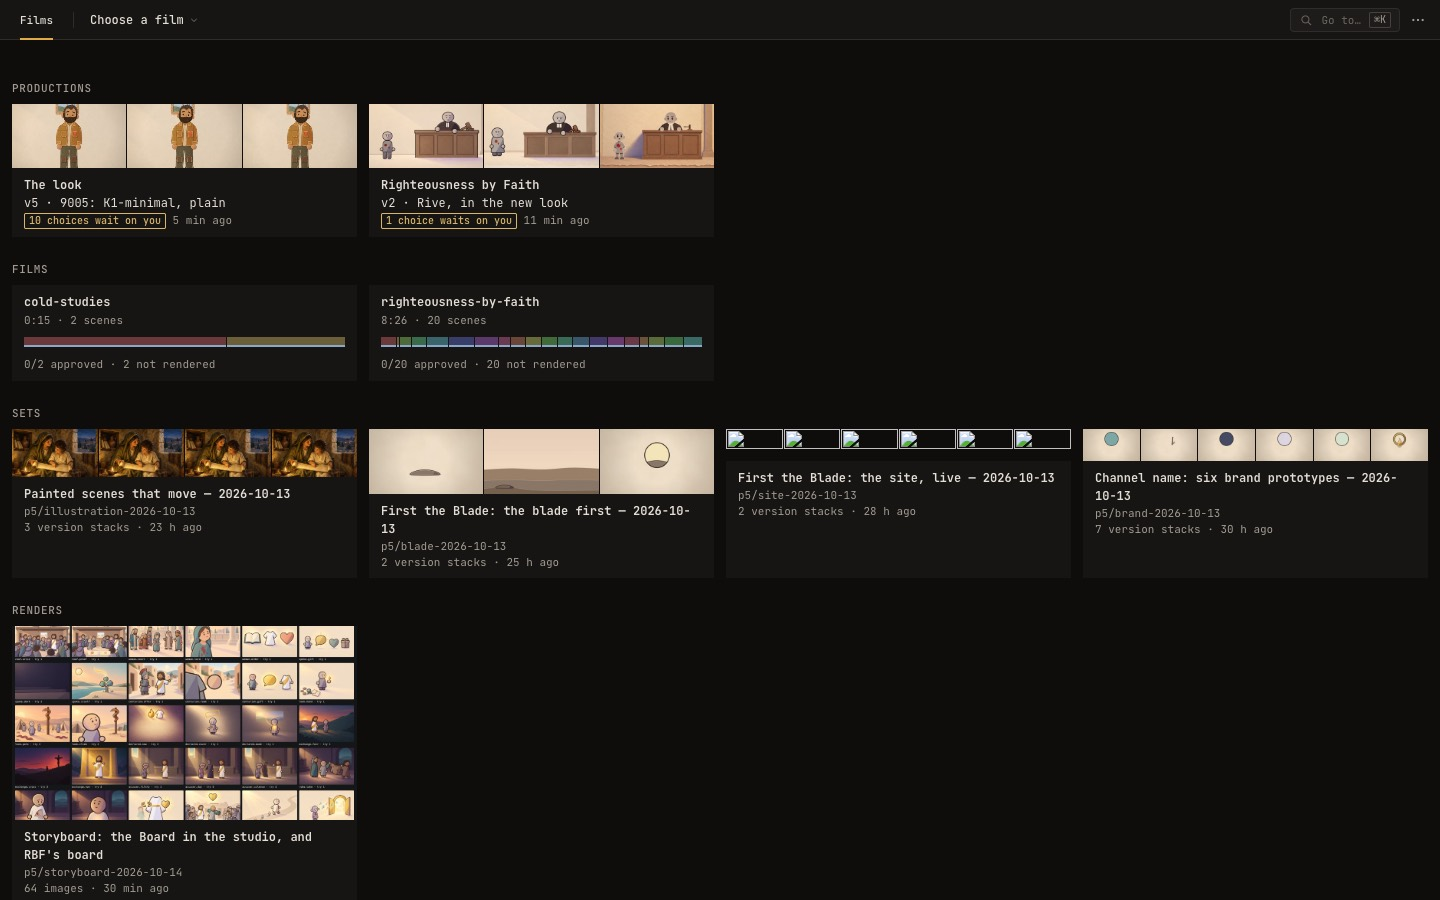
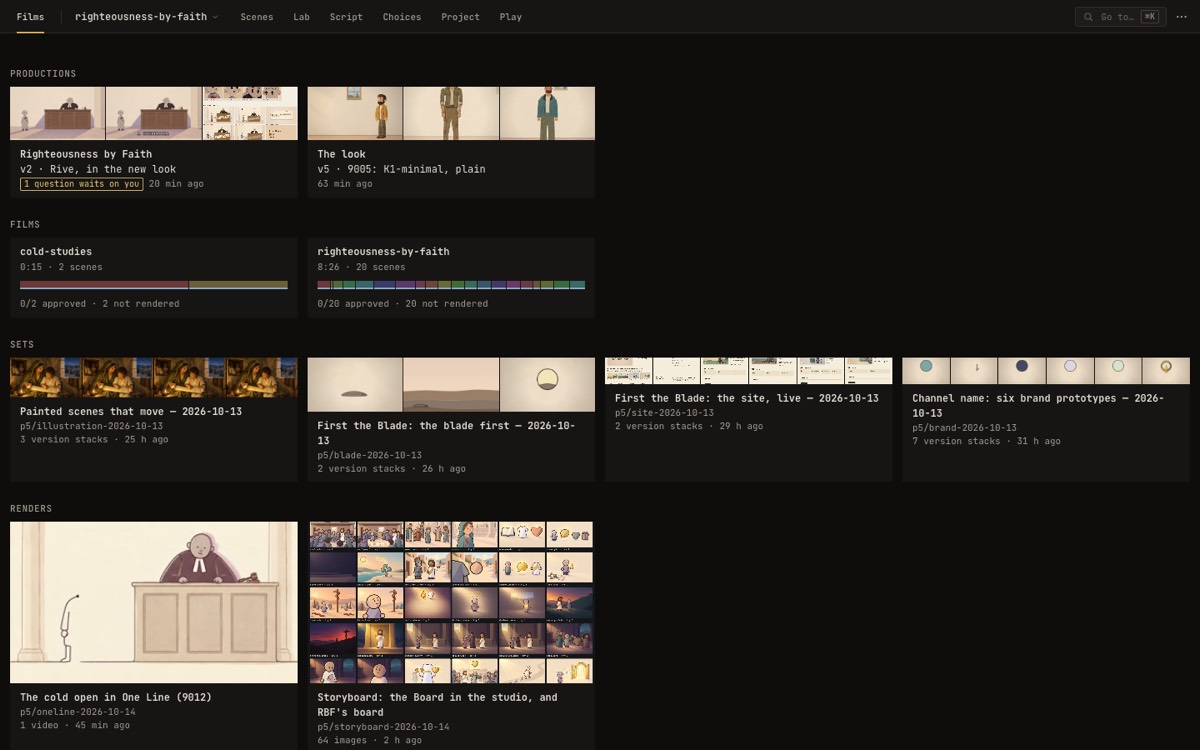
fix(film): a set's image stills show on the front door, and the board stage is specified
- reviewStillUrl: an image ref is served as itself, a video's as a frame;
  the front door's strip and the timeline share it (the site set's stills
  were broken).
- lab-timeline.md: the board stage on the storyboard unit's model
  (board group, approvalOf, pageHref.board), built once both units are on
  p5-main; fresh slice stills.

diff --git a/packages/film/src/lab/review/production.tsx b/packages/film/src/lab/review/production.tsx
@@ -14,7 +14,7 @@ import { For, Show } from '@solidjs/web';
 import { Array as Arr, Match, Option } from 'effect';
 import * as AsyncResult from 'effect/reactivity/AsyncResult';
 import { type Accessor, createEffect, createMemo, createSignal, flush } from 'solid-js';
-import { reviewFileUrl, reviewFrameUrl } from '../../core/api.ts';
+import { reviewStillUrl } from '../../core/api.ts';
 import { focusFor } from '../focus.ts';
 import { pressed } from '../pressed.ts';
 import { WIDE } from '../viewport.ts';
@@ -61,13 +61,6 @@ export const useHistories = (): Accessor<ReadonlyArray<ProductionHistory>> => {
   });
 };
 
-/** A still of a set's file: an image as it is, a video's frame 10% in. */
-const stillUrl = (ref: string): string =>
-  Match.value(/\.(png|jpe?g|webp|gif|avif)$/i.test(ref)).pipe(
-    Match.when(true, () => reviewFileUrl(ref)),
-    Match.orElse(() => reviewFrameUrl(ref, Option.none(), STILL_W)),
-  );
-
 /** The variant a stack shows: the one picked or approved, else its last. */
 const shownOf = (point: ChoicePoint): Option.Option<string> => {
   const seen = seenVariants(point);
@@ -87,7 +80,7 @@ const stillsOf = (folder: ReviewFolder): ReadonlyArray<string> => {
     .concat(folder.videos.map((v) => v.ref))
     .concat(folder.images.map((i) => i.ref))
     .slice(0, STILLS);
-  return refs.map(stillUrl);
+  return refs.map((ref) => reviewStillUrl(ref, STILL_W));
 };
 
 /** The stills of the newest set on the current version, else on any version. */

diff --git a/packages/film/src/core/api.ts b/packages/film/src/core/api.ts
@@ -30,6 +30,7 @@ import {
   Array as Arr,
   Duration,
   Effect,
+  Match,
   Option,
   Schema,
   SchemaAST,
@@ -1662,6 +1663,13 @@ export const reviewFrameUrl = (ref: string, t: Option.Option<number>, w: number)
   const at = Option.match(t, { onNone: () => ({}), onSome: (s) => ({ t: Number(s.toFixed(2)) }) });
   return labUrls.review.frame({ query: { ref, w: Math.round(w), ...at } });
 };
+
+/** A still of a set's file, `w` px wide: an image as it is, a video's frame 10% in. */
+export const reviewStillUrl = (ref: string, w: number): string =>
+  Match.value(/\.(png|jpe?g|webp|gif|avif)$/i.test(ref)).pipe(
+    Match.when(true, () => reviewFileUrl(ref)),
+    Match.orElse(() => reviewFrameUrl(ref, Option.none(), w)),
+  );
 
 /** A variant of a choice point heard alone: a take's file, an attempt's. */
 export const choiceAloneUrl = (film: string, point: string, variant: string): string =>

diff --git a/packages/film/src/lab/review/section.tsx b/packages/film/src/lab/review/section.tsx
@@ -58,6 +58,7 @@ import {
   pageHref,
   reviewFileUrl,
   reviewFrameUrl,
+  reviewStillUrl,
 } from '../../core/api.ts';
 import type { LabFailure } from '../api.ts';
 import { pressed } from '../pressed.ts';
@@ -138,11 +139,11 @@ const WithIndex = (props: { readonly children: (index: Accessor<ReviewIndex>) =>
   );
 };
 
-/** A strip of frames: one per video named, 10% in. */
+/** A strip of stills: one per file named, an image as it is, a video's frame 10% in. */
 const Strip = (props: { readonly refs: ReadonlyArray<string> }) => (
   <div class="rv-strip">
     <For each={props.refs.slice(0, STRIP)}>
-      {(ref) => <img loading="lazy" src={reviewFrameUrl(ref, Option.none(), THUMB_W)} alt="" />}
+      {(ref) => <img loading="lazy" src={reviewStillUrl(ref, THUMB_W)} alt="" />}
     </For>
   </div>
 );

diff --git a/apps/animations/plans/lab-timeline.md b/apps/animations/plans/lab-timeline.md
@@ -149,11 +149,26 @@ To run at merge, from `apps/animations` with the owner's lab folder:
 its first line (a ledger is never created twice). Sets for brand, cast and illustration stay unfiled under
 Sets until the owner names their productions.
 
-## Next (mocked, not built)
+## Next (mocked or specified, not built)
 
-**A version in stages.** A linked progress line under the version's head, not tabs. Once the storyboard unit lands, a film's version reads its stages from what the
-film already keeps: its board (`board.json`, panels and approvals), its catalogue (scene renders whose time
-falls in the version), its takes. The board is always the first stage.
+**A version in stages.** A linked progress line under the current version's head, not tabs, on a production
+that names its film. It reads the stages from what the film already keeps and copies nothing into the ledger.
+The board is always the first stage, and it is the storyboard unit's model (branch `storyboard`, a09f7f74d),
+not a second one:
+
+- read: the film's `board.json` through the lab's `board` group (`GET /api/films/<film>/board`,
+  `LabClient.board`), as the Board view reads it;
+- tally: panels (`board.panels`), panels with a try kept (`shownTry` / `kept`), and beats approved as they stand
+  (`approvalOf(board, beat) === 'approved'`; a `stale` one counts as not approved and is named);
+- link: the Board view (`pageHref.board(film)`), so the line is `Board · 24 panels, 20 kept · 5 of 8 beats
+  approved ›`;
+- waits: the line names how many beats are left to approve; the approving stays the Board view's own verb,
+  and nothing joins "what waits on you" unless an agent asks, as with sets, so a board in progress is not a
+  chore list.
+
+The stages after the board are the catalogue's (scene renders whose time falls in the version) and the takes.
+Built once `storyboard` and `timeline` are both on p5-main: the stage needs the board group and `approvalOf`,
+and a merge of the unmerged `storyboard` into `timeline` would tie the two units' merges together.
 
 ![A version in stages, the board first](lab-timeline/mock-stages.jpg)
 
